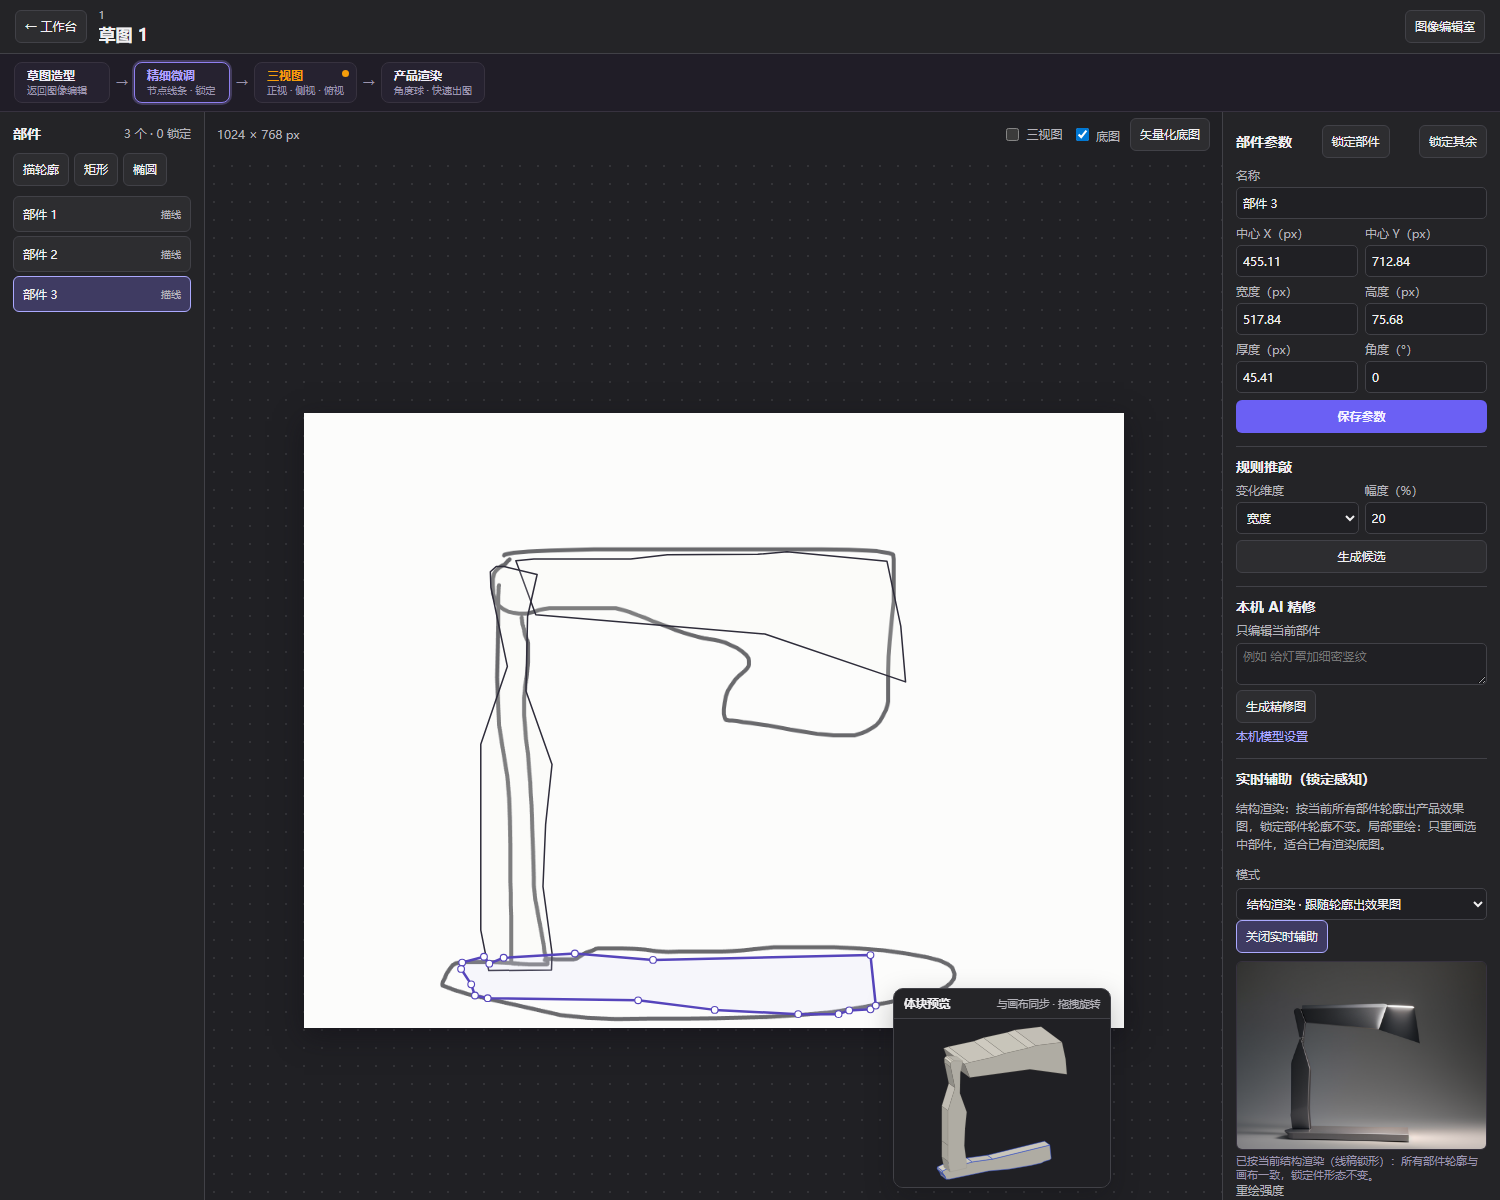
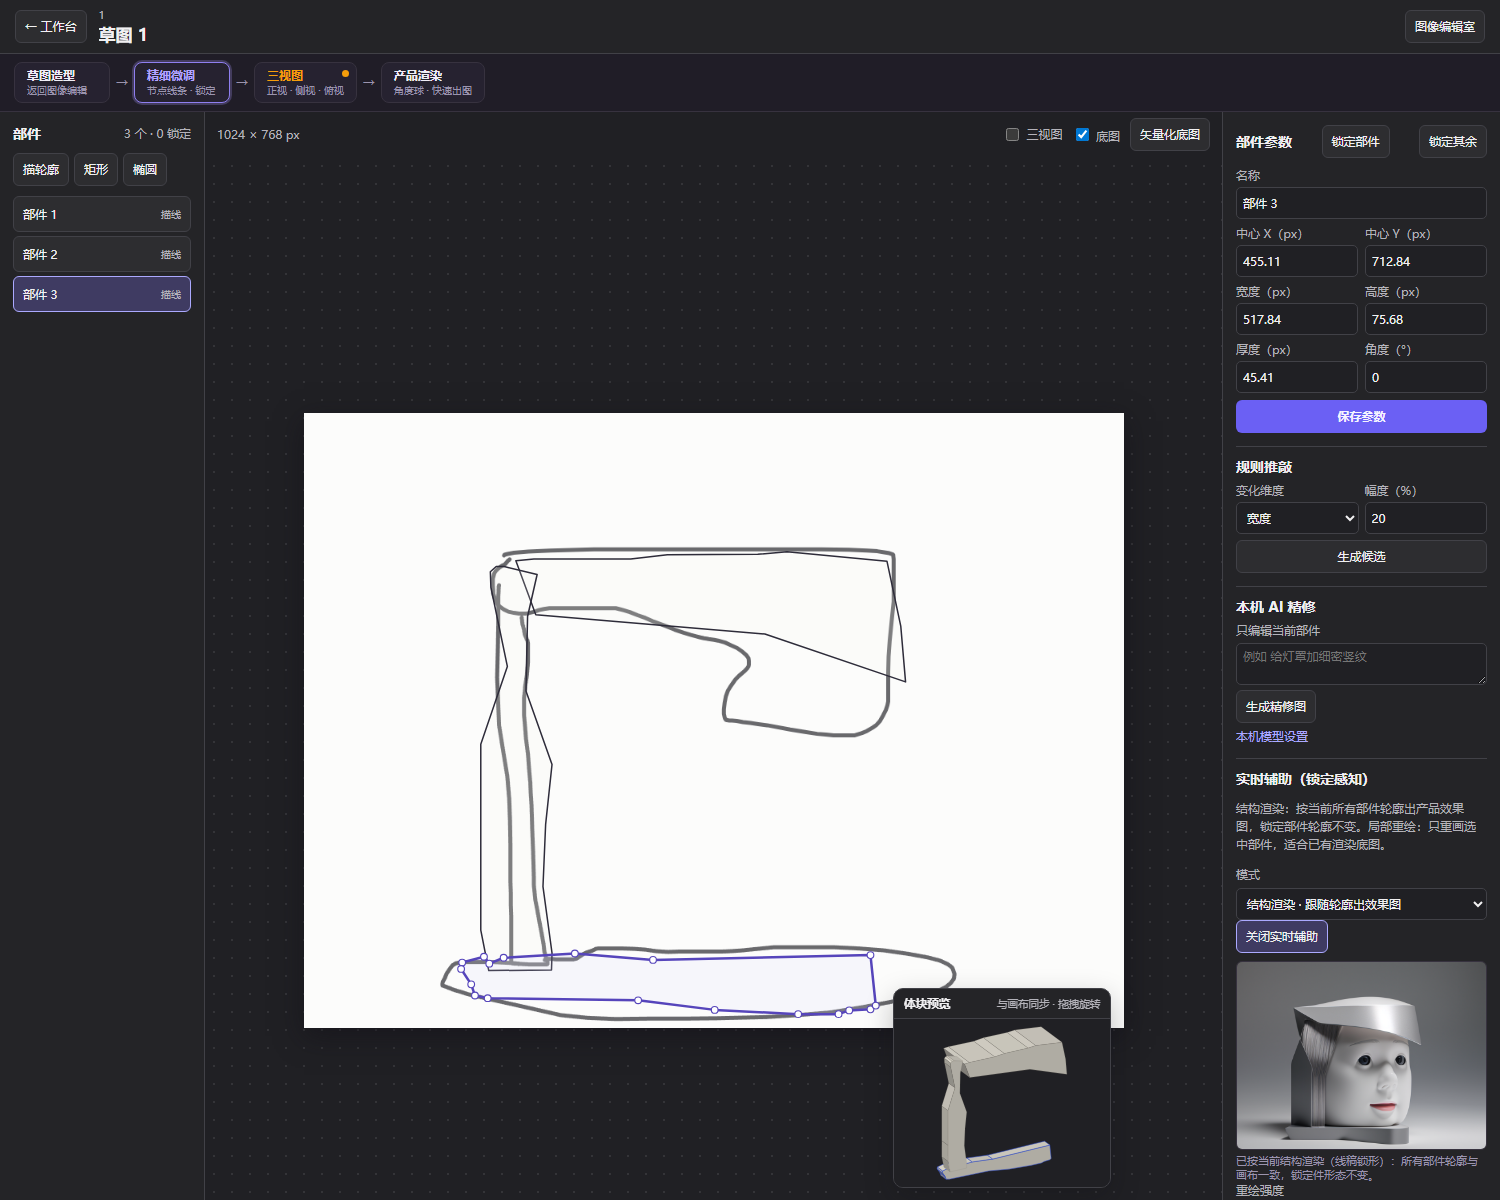
ComfyUI：只把毕设自有模型（Qwen 三件套）迁入毕设安装，共享目录与春序原样恢复
- 毕设安装 models/ 内保留 qwen_image_2.1_turbo / qwen3vl_8b / qwen vae 三个自有模型
- ComfyUI-Shared/models 与 input/output 原样搬回，春序安装与桌面版配置（安装清单、modelsDirs）全部还原
- 毕设安装根目录 extra_model_paths.yaml 只读引用共享模型，SD1.5 实时渲染照常
- 启动器仍指向毕设安装（打开物映.cmd / 启动ComfyUI（毕设）.cmd / 一键启动三件套.cmd）
- 删除失效的物映平台/comfy-extra-model-paths.yaml，README 同步

Changed region(s): [[0.7973, 0.8017, 1.0, 0.9558]]

diff --git a/README.md b/README.md
@@ -29,7 +29,7 @@ node --test *.cjs
 
 ## 渲染后端
 
-- **本机 ComfyUI**（推荐）：SD1.5 / CyberRealistic + Scribble/Lineart/Canny ControlNet 实时渲染；Qwen-Image-2.1 高质量出图（模型放 `D:\毕设\models`，挂载配置见 `comfy-extra-model-paths.yaml`）
+- **本机 ComfyUI**（推荐）：SD1.5 / CyberRealistic + Scribble/Lineart/Canny ControlNet 实时渲染；Qwen-Image-2.1 高质量出图（三件套在 `ComfyUI-Installs\毕设\ComfyUI\models`，基础模型只读引用 `ComfyUI-Shared\models`）
 - **Images API 兼容**：OpenAI 官方 / apilio.ai 中转，支持 `image` 与 `image[]` 两种字段格式
 - **RunningHub**：云端工作流
 
@@ -48,6 +48,6 @@ dist/           前端（零构建静态站）
 server/         Node 服务端（8881/8882）
 tools/          工具脚本
 test-*.cjs      单元测试（node --test）
-comfy-extra-model-paths.yaml  ComfyUI 模型挂载配置
+开源集成/启动ComfyUI（毕设）.cmd  ComfyUI 启动（毕设安装，端口 8188）
 legacy-backup-2026-11-17/  旧版备份
 ```
